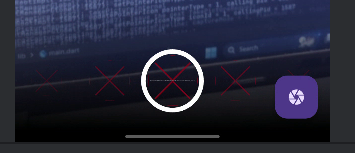
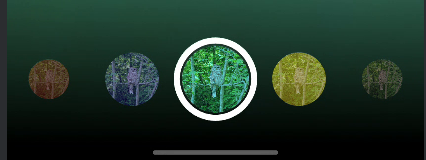
docs: update documentation kamera_flutter readme.md

diff --git a/kamera_flutter/README.md b/kamera_flutter/README.md
@@ -53,7 +53,7 @@ saat di swipe akan menampilkan beberapa filter warna
 ![Documentations Kamera_Flutter](Docs/07.png)
 
 > [!WARNING]
-> Disini ikon filter (lingkaran bertekstur) muncul sebagai tanda “X merah” alias missing image. Karena gambar tidak berhasil dimuat dari URL yang digunakan di filter_item.dart. atau sudah tidak didukung lagi alias 404.
+> Untuk memperbaiki ikon filter (lingkaran bertekstur) muncul sebagai tanda “X merah” alias missing image. diperlukan url aktif yang diubah atau di replace di bagian `filter_item.dart`
 
 ![Documentations Kamera_Flutter](Docs/08.png)
 
